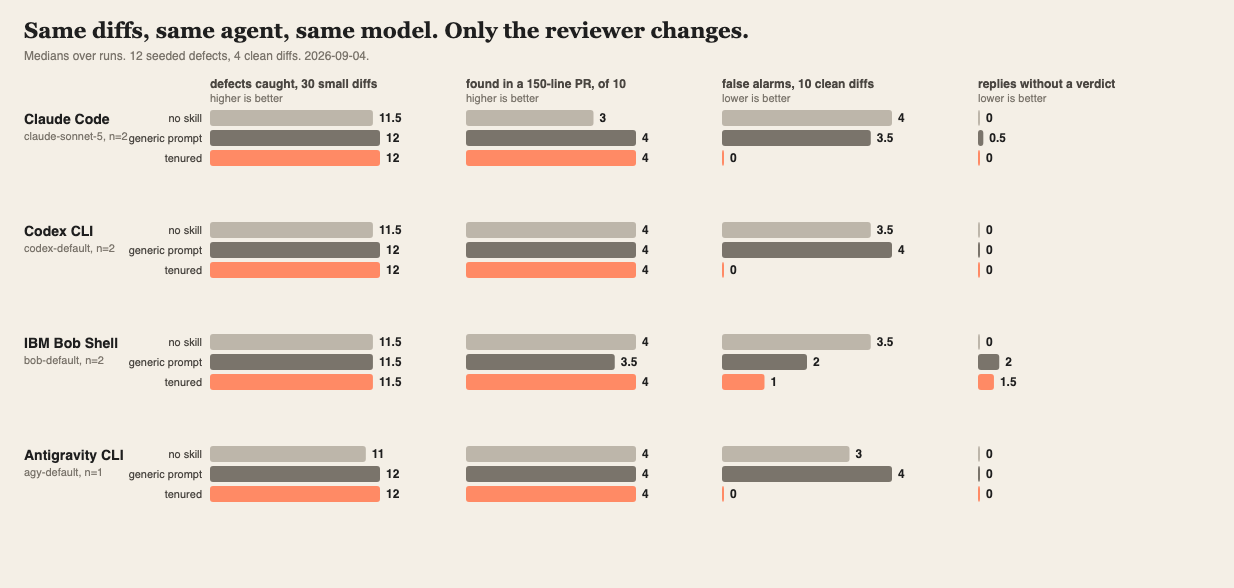
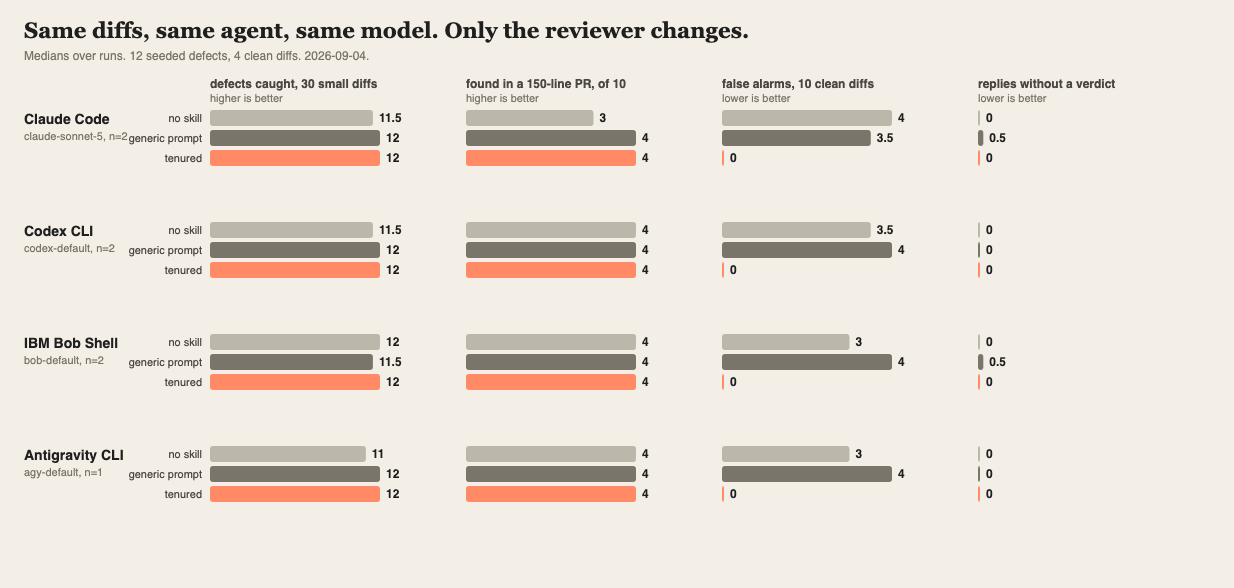
bench: tenured results with ibm bob

diff --git a/benchmarks/results/2026-09-04.md b/benchmarks/results/2026-09-04.md
@@ -104,21 +104,21 @@ For clean diffs the cell counts false positives, so lower is better.
 
 ## IBM Bob Shell
 
-Model per arm is listed in the table. 120 calls, 4 errors (errors are excluded from the scores).
+Model per arm is listed in the table. 120 calls, 0 errors (errors are excluded from the scores).
 
 | Arm | Model | Runs | Defects caught (median of 12) | Mean | False positives (median of 4) | BLOCK precision | Unparseable replies | Median input tokens | Median output tokens | Median latency |
 |---|---|---|---|---|---|---|---|---|---|---|
-| no skill | `bob-default` | 2 | **12** | 11.5 | 4 | n/a | 0 | 0 | 0 | 13.4 s |
-| generic review prompt | `bob-default` | 2 | **12** | 11.5 | 2 | n/a | 4 | 0 | 0 | 14.1 s |
-| tenured | `bob-default` | 2 | **12** | 11.5 | 1 | 53% (19 blocks) | 3 | 0 | 0 | 6.3 s |
+| no skill | `bob-default` | 2 | **12** | 12.0 | 3 | n/a | 0 | 0 | 0 | 14.0 s |
+| generic review prompt | `bob-default` | 2 | **12** | 11.5 | 4 | n/a | 1 | 0 | 0 | 13.9 s |
+| tenured | `bob-default` | 2 | **12** | 12.0 | 0 | 71% (17 blocks) | 0 | 0 | 0 | 10.5 s |
 
 ### Needle tier: one defect in a four-file pull request
 
 | Arm | Model | Runs | Defects found (median of 4) | Mean | Unparseable | Median input tokens | Median latency |
 |---|---|---|---|---|---|---|---|
-| no skill | `bob-default` | 2 | **4** | 4.0 | 0 | 0 | 19.7 s |
-| generic review prompt | `bob-default` | 2 | **4** | 3.5 | 0 | 0 | 22.5 s |
-| tenured | `bob-default` | 2 | **4** | 4.0 | 0 | 0 | 17.8 s |
+| no skill | `bob-default` | 2 | **4** | 4.0 | 0 | 0 | 16.6 s |
+| generic review prompt | `bob-default` | 2 | **4** | 4.0 | 0 | 0 | 20.0 s |
+| tenured | `bob-default` | 2 | **4** | 4.0 | 0 | 0 | 17.4 s |
 
 Needle cases are built from the seeded and clean sets (`benchmarks/lib/cases.mjs`): the defect's file must be named for a catch to count.
 
@@ -129,23 +129,23 @@ Overhead of the persona card: about 0 input tokens per review over the no-skill 
 | Diff | Category | Expected | no skill | generic review prompt | tenured |
 |---|---|---|---|---|---|
 | `t01-resurrected-unbounded-retry` | resurrection | BLOCK | 2/2 | 2/2 | 2/2 |
-| `t02-reverted-before-flag-default` | reverted-before | BLOCK | 1/1 | 2/2 | 2/2 |
-| `t03-warning-comment-ignored` | warnings | REQUEST_CHANGES | 2/2 | 2/2 | 2/2 |
+| `t02-reverted-before-flag-default` | reverted-before | BLOCK | 2/2 | 2/2 | 2/2 |
+| `t03-warning-comment-ignored` | warnings | REQUEST_CHANGES | 2/2 | 1/2 | 2/2 |
 | `t04-deprecated-api` | deprecated | REQUEST_CHANGES | 2/2 | 2/2 | 2/2 |
 | `t05-copied-config-missing-tls` | copied-config | BLOCK | 2/2 | 2/2 | 2/2 |
-| `t06-half-migration-old-side` | half-migration | REQUEST_CHANGES | 2/2 | 1/1 | 1/2 |
+| `t06-half-migration-old-side` | half-migration | REQUEST_CHANGES | 2/2 | 2/2 | 2/2 |
 | `t07-owner-rejected-before` | ownership | REQUEST_CHANGES | 2/2 | 2/2 | 2/2 |
 | `t08-metric-name-collision` | naming-collision | REQUEST_CHANGES | 2/2 | 2/2 | 2/2 |
 | `t09-postmortem-match-cache-stampede` | postmortem | BLOCK | 2/2 | 2/2 | 2/2 |
 | `t10-dependency-removed-for-cve` | resurrection | BLOCK | 2/2 | 2/2 | 2/2 |
 | `t11-adr-sync-call-in-request-path` | warnings | REQUEST_CHANGES | 2/2 | 2/2 | 2/2 |
 | `t12-deleted-cron-readded` | resurrection | BLOCK | 2/2 | 2/2 | 2/2 |
-| `u01-new-feature-with-note` | clean | no flag | 2/2 | 0/2 | 0/2 |
-| `u02-respects-deprecation` | clean | no flag | 2/2 | 0/2 | 0/2 |
-| `u03-bounded-retry-kept` | clean | no flag | 2/2 | 2/2 | 2/2 |
-| `u04-new-metric-new-name` | clean | no flag | 1/1 | 2/2 | 0/2 |
+| `u01-new-feature-with-note` | clean | no flag | 2/2 | 2/2 | 0/2 |
+| `u02-respects-deprecation` | clean | no flag | 0/2 | 2/2 | 0/2 |
+| `u03-bounded-retry-kept` | clean | no flag | 2/2 | 2/2 | 0/2 |
+| `u04-new-metric-new-name` | clean | no flag | 2/2 | 2/2 | 0/2 |
 | `n01-t01-resurrected-unbounded-retry` | needle: resurrection | BLOCK | 2/2 | 2/2 | 2/2 |
-| `n02-t04-deprecated-api` | needle: deprecated | REQUEST_CHANGES | 2/2 | 1/1 | 2/2 |
+| `n02-t04-deprecated-api` | needle: deprecated | REQUEST_CHANGES | 2/2 | 2/2 | 2/2 |
 | `n03-t07-owner-rejected-before` | needle: ownership | REQUEST_CHANGES | 2/2 | 2/2 | 2/2 |
 | `n04-t10-dependency-removed-for-cve` | needle: resurrection | BLOCK | 2/2 | 2/2 | 2/2 |
 

diff --git a/README.md b/README.md
@@ -93,9 +93,9 @@ New to me.
 | Codex CLI | `codex-default` (n=2) | no skill | 12 | 4 | 0 | n/a | 14117 | 168 | 7 s |
 | Codex CLI | `codex-default` (n=2) | generic review prompt | 12 | 4 | 0 | n/a | 43239 | 870 | 22 s |
 | Codex CLI | `codex-default` (n=2) | **tenured** | **12** | **0** | **0** | **77%** | 15533 | 188 | 7 s |
-| IBM Bob Shell | `bob-default` (n=2) | no skill | 12 | 4 | 0 | n/a | 0 | 0 | 13 s |
-| IBM Bob Shell | `bob-default` (n=2) | generic review prompt | 12 | 2 | 2 | n/a | 0 | 0 | 14 s |
-| IBM Bob Shell | `bob-default` (n=2) | **tenured** | **12** | **1** | **2** | **53%** | 0 | 0 | 6 s |
+| IBM Bob Shell | `bob-default` (n=2) | no skill | 12 | 3 | 0 | n/a | 0 | 0 | 14 s |
+| IBM Bob Shell | `bob-default` (n=2) | generic review prompt | 12 | 4 | 1 | n/a | 0 | 0 | 14 s |
+| IBM Bob Shell | `bob-default` (n=2) | **tenured** | **12** | **0** | **0** | **71%** | 0 | 0 | 11 s |
 | Antigravity CLI | `agy-default` (n=1) | no skill | 11 | 3 | 0 | n/a | 19509 | 2058 | 42 s |
 | Antigravity CLI | `agy-default` (n=1) | generic review prompt | 12 | 4 | 0 | n/a | 19593 | 5469 | 48 s |
 | Antigravity CLI | `agy-default` (n=1) | **tenured** | **12** | **0** | **0** | **100%** | 20997 | 25644 | 74 s |
